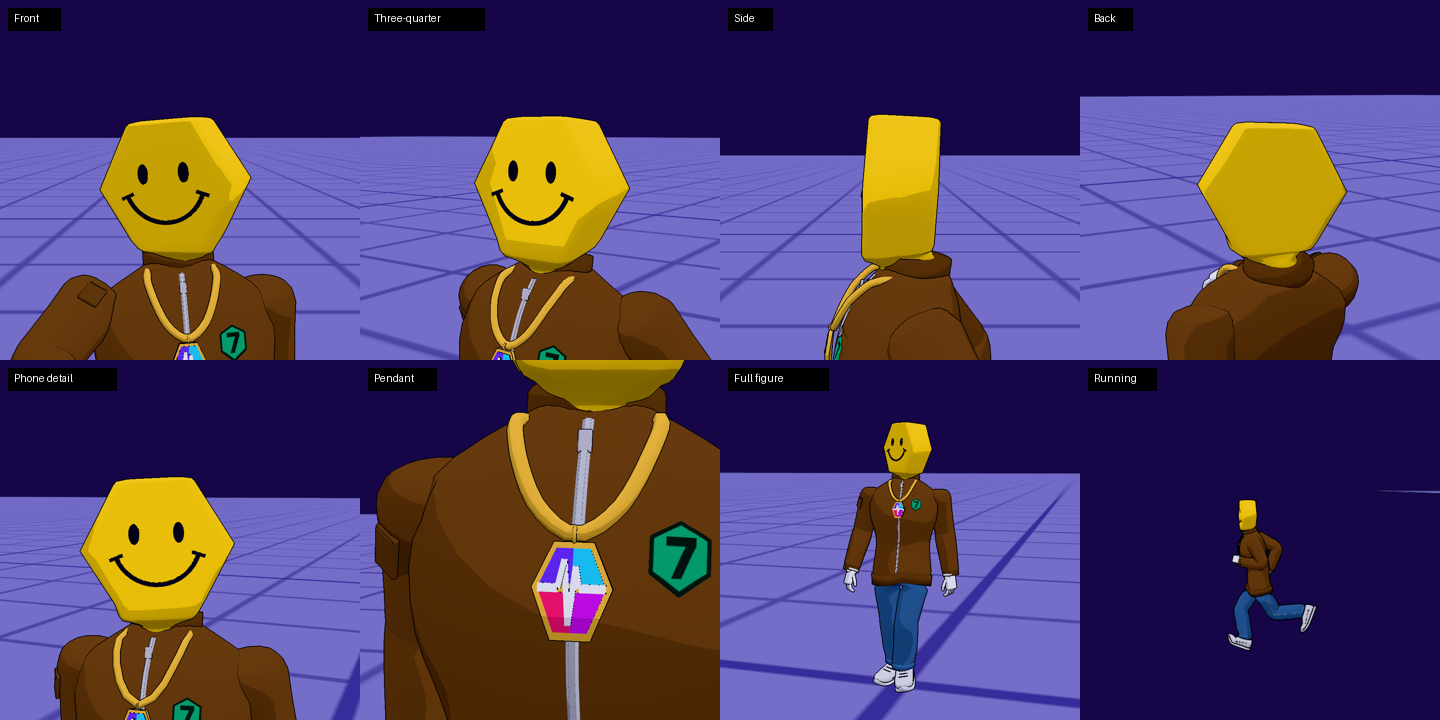
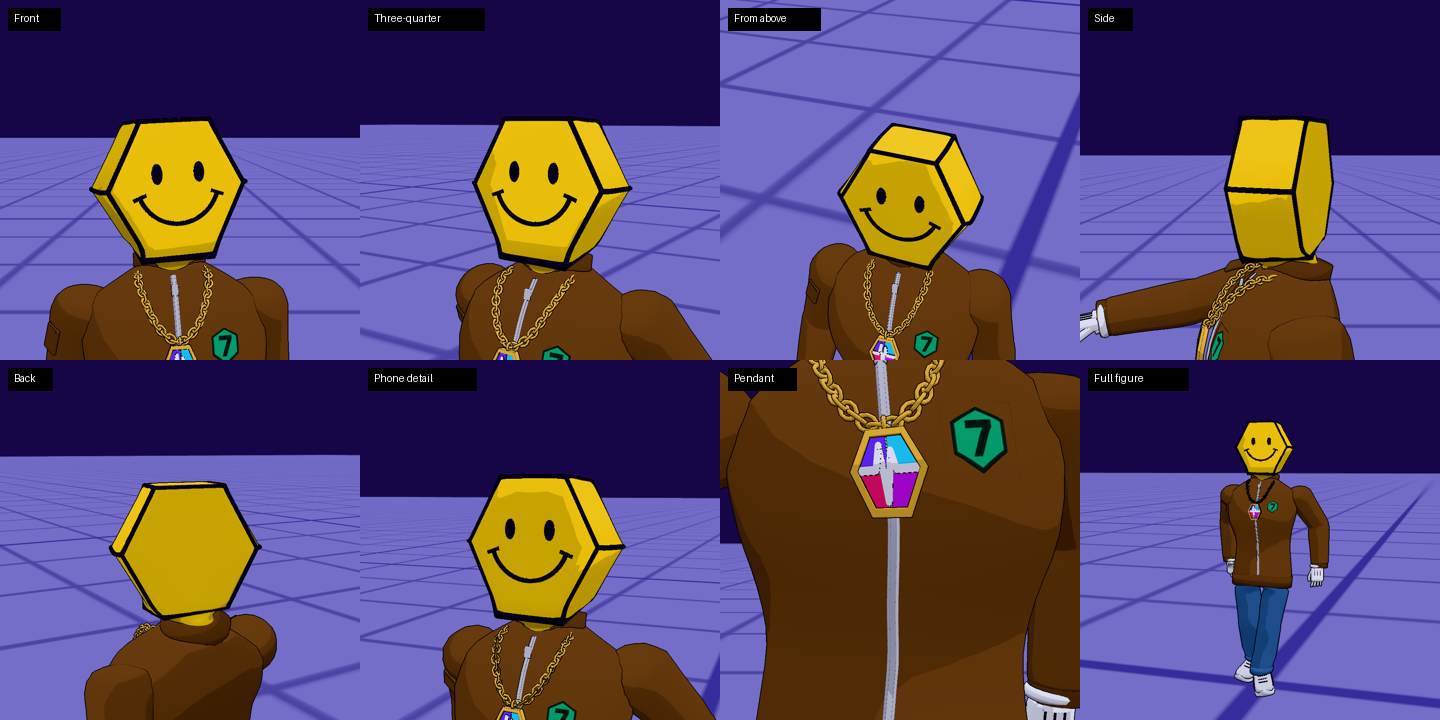
Characters plan: Smilex's detail pass
His head's edges inked like a cartoon block (round the face, round the
back, down each corner), after the owner's second reference; the ring
drawn on the face taken out. The PulseChain pendant set like a jewel
(bezel, bevelled facets, a truer pulse line), a chunky curb chain along
the necklace's path, stitch lines and puffier cuffs on his gloves. Tests
hold the edge lines on the head's surface, the chain and the gloves.

Claude-Session: https://claude.ai/code/session_018cDkyenYfEPdmugdyyKXDm

diff --git a/src/scripts/city3d/heads.ts b/src/scripts/city3d/heads.ts
@@ -319,9 +319,11 @@ export let SMILEX: HeadModel;
 export const SMILEX_EYE_Y = 0.15;
 export const SMILEX_MOUTH_Y = 0.085;
 
-/** A flat outline in ink laid on a head's front, `lift` off it */
-function inkOn(m: HeadModel, outline: [number, number][], lift: number, depth = 0.0012) {
-  const g = new THREE.ExtrudeGeometry(new THREE.Shape(outline.map(([x, y]) => new THREE.Vector2(x, y))), { depth, bevelEnabled: false, curveSegments: 6 });
+/** A flat outline in ink laid on a head's front, `lift` off it (with holes: a border) */
+function inkOn(m: HeadModel, outline: [number, number][], lift: number, depth = 0.0012, holes: [number, number][][] = []) {
+  const shape = new THREE.Shape(outline.map(([x, y]) => new THREE.Vector2(x, y)));
+  for (const h of holes) shape.holes.push(new THREE.Path(h.map(([x, y]) => new THREE.Vector2(x, y))));
+  const g = new THREE.ExtrudeGeometry(shape, { depth, bevelEnabled: false, curveSegments: 6 });
   const p = g.attributes.position as THREE.BufferAttribute;
   for (let i = 0; i < p.count; i++) p.setZ(i, m.front(p.getX(i), p.getY(i)) + lift + p.getZ(i));
   g.computeVertexNormals();
@@ -380,46 +382,169 @@ export function smilex(q: 2 | 3) {
     const d = 0.012;
     return inkOn(SMILEX, bar([end[0] - Math.cos(a) * d, end[1] - Math.sin(a) * d], [end[0] + Math.cos(a) * d, end[1] + Math.sin(a) * d], 0.006), 0.0011);
   });
-  return { head: [head], ink: [...eyes, smile, ...ticks] };
+  return { head: [head], ink: [...eyes, smile, ...ticks], edges: hexEdges(q) };
 }
 
 /**
- * The PulseChain symbol as a pendant (the owner's call, 2026-11-21): a flat-topped hexagon in a gold rim, its face in
- * four bands for the logo's gradient (cyan, violet, magenta, red), the white pulse line across it, and a bail at the
- * top for the chain. Centred on the origin, its face towards +z, about 6 cm across.
+ * The block's edges inked (the owner's call, after the art: a cartoon block, black lines along its edges, not a ring
+ * drawn on the face): round the face where it turns onto the sides, round the back the same, and along each of the
+ * six corners from front to back, following the rounded edge. Black tubes half sunk into the rounded edges, so each
+ * reads as a bold line from the face and from the side alike; a ball at each corner joins them.
+ */
+export const EDGE_R = 0.0038;
+function hexEdges(q: 2 | 3) {
+  const M = SMILEX;
+  const seg = q === 3 ? 6 : 4;
+  // (the rounded edge's middle on a row: its squircle at 45 degrees, front or back)
+  const rim = (x: number, y: number, side: 1 | -1, k = 0.5) => {
+    const [, hw, fr, back, zc, n] = M.rowAt(y);
+    const e = 2 / n;
+    const a = (Math.PI / 2) * k;
+    return new THREE.Vector3(Math.sign(x) * Math.cos(a) ** e * hw, y, zc + side * Math.sin(a) ** e * (side > 0 ? fr : back));
+  };
+  // (the top and bottom flats: the edge between face and flat, a couple of millimetres in from each)
+  const yTop = HEX_Y1 - 0.0012;
+  const yBot = HEX_Y0 + 0.0012;
+  const flatZ = (side: 1 | -1) => HEX_ZC + side * (HEX_D - 0.0028);
+  const corners = (side: 1 | -1) => {
+    const top = hexHW(HEX_Y1) - 0.002;
+    const bot = hexHW(HEX_Y0) - 0.002;
+    const c = rim(1, HEX_MID, side).x;
+    return [
+      new THREE.Vector3(c, HEX_MID, rim(1, HEX_MID, side).z),
+      new THREE.Vector3(top * 0.97, yTop, flatZ(side)),
+      new THREE.Vector3(-top * 0.97, yTop, flatZ(side)),
+      new THREE.Vector3(-c, HEX_MID, rim(1, HEX_MID, side).z),
+      new THREE.Vector3(-bot * 0.97, yBot, flatZ(side)),
+      new THREE.Vector3(bot * 0.97, yBot, flatZ(side)),
+    ];
+  };
+  const out: THREE.BufferGeometry[] = [];
+  const tube = (pts: THREE.Vector3[], n: number) => out.push(new THREE.TubeGeometry(new THREE.CatmullRomCurve3(pts, false, 'catmullrom', 0), n, EDGE_R, seg, false));
+  const ball = (p: THREE.Vector3) => out.push(new THREE.SphereGeometry(EDGE_R * 1.05, seg + 2, Math.max(3, seg - 1)).translate(p.x, p.y, p.z));
+  for (const side of [1, -1] as const) {
+    const c = corners(side);
+    // Round the face (or the back): the slanted sides follow the rim row by row, the flats run straight
+    for (let i = 0; i < 6; i++) {
+      const a = c[i];
+      const b = c[(i + 1) % 6];
+      if (Math.abs(a.y - b.y) < 1e-6) tube([a, b], 2);
+      else {
+        const pts: THREE.Vector3[] = [];
+        for (let k = 0; k <= 8; k++) {
+          const y = a.y + ((b.y - a.y) * k) / 8;
+          const p = rim(a.x, y, side);
+          // (towards the flats the line eases onto the flat's edge line)
+          pts.push(k === 8 ? b.clone() : k === 0 ? a.clone() : p);
+        }
+        tube(pts, 10);
+      }
+      ball(c[i]);
+    }
+  }
+  // Along each corner, front to back: the side points round their rows' rounded ends, the four flats' corners along
+  // where the flat meets the slanted side
+  for (const [x, y] of [
+    [1, HEX_MID],
+    [-1, HEX_MID],
+  ] as const) {
+    const pts: THREE.Vector3[] = [];
+    for (let k = 0; k <= 8; k++) {
+      const t = 1 - k / 4;
+      pts.push(rim(x, y, t >= 0 ? 1 : -1, Math.abs(t) * 0.5));
+    }
+    tube(pts, 10);
+  }
+  for (const [sx, y] of [
+    [1, yTop],
+    [-1, yTop],
+    [1, yBot],
+    [-1, yBot],
+  ] as const) {
+    const w = (y === yTop ? hexHW(HEX_Y1) : hexHW(HEX_Y0)) - 0.002;
+    tube([new THREE.Vector3(sx * w * 0.97, y, flatZ(1)), new THREE.Vector3(sx * w * 1.0, y, HEX_ZC), new THREE.Vector3(sx * w * 0.97, y, flatZ(-1))], 6);
+  }
+  return out;
+}
+
+/**
+ * The PulseChain symbol as a pendant (the owner's call, 2026-11-21), set like a jewel: a gold back plate and a bezel
+ * standing round the edge, the face set into it in four bevelled facets for the logo's gradient (cyan, violet, magenta,
+ * red), the white pulse line across it edge to edge with rounded joins, and a chunky bail at the top for the chain.
+ * Flat-topped, centred on the origin, its face towards +z, about 6 cm across.
  */
 export function pulsePendant(q: 2 | 3) {
-  const r = 0.03;
-  const T = 0.007;
-  const rim = new THREE.CylinderGeometry(r, r, T, 6, 1).rotateX(Math.PI / 2).rotateZ(Math.PI / 6);
+  const r = 0.031;
+  const T = 0.008;
   const hex = (rr: number, k: number): [number, number] => [Math.cos((k * Math.PI) / 3) * rr, Math.sin((k * Math.PI) / 3) * rr];
-  const f = r * 0.84;
+  const hexPts = (rr: number) => Array.from({ length: 6 }, (_, k) => hex(rr, k));
+  const shapeOf = (pts: [number, number][]) => new THREE.Shape(pts.map(([x, y]) => new THREE.Vector2(x, y)));
+  const flat = (outline: [number, number][], z: number, d: number, bevel = 0) =>
+    new THREE.ExtrudeGeometry(shapeOf(outline), { depth: d, bevelEnabled: bevel > 0, bevelThickness: bevel, bevelSize: bevel * 0.8, bevelSegments: 1 }).translate(0, 0, z);
+  // The back plate, and the bezel: a hexagonal ring standing proud of the face
+  const plate = new THREE.CylinderGeometry(r, r, T, 6, 1).rotateX(Math.PI / 2).rotateZ(Math.PI / 6);
+  const IN = r * 0.84;
+  const bezelShape = shapeOf(hexPts(r));
+  bezelShape.holes.push(new THREE.Path(hexPts(IN).reverse().map(([x, y]) => new THREE.Vector2(x, y))));
+  const bezel = new THREE.ExtrudeGeometry(bezelShape, { depth: 0.0035, bevelEnabled: true, bevelThickness: 0.0009, bevelSize: 0.0007, bevelSegments: q === 3 ? 2 : 1 }).translate(0, 0, T / 2);
+  // The face's four facets, set a little below the bezel's lip, each bevelled so it catches the light like a cut stone
+  const f = IN - 0.0012;
   const h = (f * Math.sqrt(3)) / 2;
-  const g = 0.0022;
-  const flat = (outline: [number, number][], z: number, d = 0.0008) =>
-    new THREE.ExtrudeGeometry(new THREE.Shape(outline.map(([x, y]) => new THREE.Vector2(x, y))), { depth: d, bevelEnabled: false }).translate(0, 0, z);
-  const face = T / 2 + 0.0005;
-  // (the face's four quarters, either side of the middle and above and below the pulse line)
+  const g = 0.0026;
+  const face = T / 2 + 0.0003;
   const xAt = (y: number) => f - Math.abs(y) / Math.sqrt(3);
+  const B = 0.0007;
   const bands = {
-    cyan: flat([[0, g], [xAt(g), g], hex(f, 1), [0, h]], face),
-    violet: flat([[0, g], [0, h], hex(f, 2), [-xAt(g), g]], face),
-    magenta: flat([[0, -g], [0, -h], hex(f, 5), [xAt(g), -g]], face),
-    red: flat([[0, -g], [-xAt(g), -g], hex(f, 4), [0, -h]], face),
+    cyan: flat([[0.0009, g], [xAt(g), g], hex(f, 1), [0.0009, h]], face, 0.0012, B),
+    violet: flat([[-0.0009, g], [-0.0009, h], hex(f, 2), [-xAt(g), g]], face, 0.0012, B),
+    magenta: flat([[0.0009, -g], [0.0009, -h], hex(f, 5), [xAt(g), -g]], face, 0.0012, B),
+    red: flat([[-0.0009, -g], [-xAt(g), -g], hex(f, 4), [-0.0009, -h]], face, 0.0012, B),
   };
-  // The pulse line: flat from the left, up, down past the middle, up again, flat to the right
+  // The pulse line: flat in from each edge, up, down past the middle, up again; thick, its joins round
   const P: [number, number][] = [
     [-1, 0],
     [-0.4, 0],
-    [-0.24, 0.6],
-    [-0.06, -0.72],
-    [0.1, 0.45],
-    [0.22, 0],
+    [-0.25, 0.62],
+    [-0.07, -0.74],
+    [0.1, 0.46],
+    [0.23, 0],
     [1, 0],
-  ].map(([x, y]) => [x * f, y * f]);
-  const pulse = P.slice(1).map((b, i) => flat(bar(P[i], b, 0.0045), face + 0.0009, 0.0008));
-  const bail = new THREE.TorusGeometry(0.0055, 0.0016, R2(q, 6), R2(q, 12)).rotateY(Math.PI / 2).translate(0, (r * Math.sqrt(3)) / 2 + 0.005, 0);
-  return { gold: [rim, bail], bands, white: pulse };
+  ].map(([x, y]) => [x * IN, y * f]);
+  const W = 0.0055;
+  const lineZ = face + 0.0012 + B + 0.0003;
+  const pulse = [
+    ...P.slice(1).map((b2, i) => flat(bar(P[i], b2, W), lineZ, 0.0009)),
+    ...P.slice(1, -1).map(([x, y]) => new THREE.CylinderGeometry(W / 2, W / 2, 0.0009, R2(q, 10)).rotateX(Math.PI / 2).translate(x, y, lineZ + 0.00045)),
+  ];
+  const bail = new THREE.TorusGeometry(0.0062, 0.0022, R2(q, 6), R2(q, 14)).rotateY(Math.PI / 2).translate(0, (r * Math.sqrt(3)) / 2 + 0.0055, 0);
+  return { gold: [plate, bezel, bail], bands, white: pulse };
+}
+
+/**
+ * A chunky curb chain along a path (Smilex's: docs/characters-plan.md): oval links every centimetre, each turned a
+ * quarter from the one before so they interlock, laid where the necklace's cord would be
+ */
+export function curbChain(path: THREE.Curve<THREE.Vector3>, q: 2 | 3) {
+  const len = path.getLength();
+  const n = Math.round(len / 0.0105);
+  const links: THREE.BufferGeometry[] = [];
+  const link = new THREE.TorusGeometry(0.0066, 0.0021, q === 3 ? 5 : 3, q === 3 ? 10 : 7).scale(1.35, 1, 1);
+  const up = new THREE.Vector3(0, 1, 0);
+  const front = new THREE.Vector3(0, 0, 1);
+  for (let i = 0; i <= n; i++) {
+    const u = i / n;
+    const p = path.getPointAt(u);
+    const t = path.getTangentAt(u).normalize();
+    // (a link lies flat on the chest, the next stands across it)
+    const lie = new THREE.Vector3().crossVectors(t, up);
+    if (lie.lengthSq() < 1e-4) lie.crossVectors(t, front);
+    lie.normalize();
+    if (lie.z < 0) lie.negate();
+    const normal = i % 2 ? new THREE.Vector3().crossVectors(t, lie).normalize() : lie;
+    const side = new THREE.Vector3().crossVectors(normal, t).normalize();
+    links.push(link.clone().applyMatrix4(new THREE.Matrix4().makeBasis(t, side, normal).setPosition(p)));
+  }
+  return links;
 }
 const R2 = (q: 2 | 3, n: number) => Math.max(4, Math.round(n * (q === 3 ? 1 : 0.7)));
 
@@ -452,6 +577,7 @@ export function characterParts(id: CharacterId, q: 2 | 3): HeadPart[] {
       return [
         { geos: s.head, color: SMILEX_YELLOW },
         { geos: s.ink, color: SLIME_INK },
+        { geos: s.edges, color: SLIME_INK },
       ];
     }
   }
@@ -469,6 +595,11 @@ export function characterPendant(id: CharacterId, q: 2 | 3): HeadPart[] | null {
     { geos: [p.bands.red], color: '#ee3070' },
     { geos: p.white, color: '#e9e7ef' },
   ];
+}
+
+/** A character's own chain along the necklace's path (null: the necklace's smooth cord) */
+export function characterChain(id: CharacterId, q: 2 | 3, path: THREE.Curve<THREE.Vector3>): THREE.BufferGeometry[] | null {
+  return id === 'smilex' ? curbChain(path, q) : null;
 }
 
 /** The colour of a character's gloves (null: bare hands in the skin tone) */

diff --git a/tests/heads.test.ts b/tests/heads.test.ts
@@ -11,7 +11,7 @@ import { CHARACTERS, CHARACTER_LOOKS, DEFAULT_LOOK, PALETTE, cleanLook, type Cha
 import { SKIN_TONES } from '../src/scripts/city3d/crowdlook';
 import { describe as describeLook } from '../src/scripts/city3d/lookrows';
 import { DEGEN_HEAD, HEAD_ROWS, headGeometry, headModel, type HeadDef } from '../src/scripts/city3d/body';
-import { CHARACTER_IDS, characterGloves, characterParts, characterPendant, setHeadModel, SMILEX, SMILEX_HEAD, smilex, SLIME, SLIME_EYE_R, SLIME_EYE_Y, SLIME_HEAD, SLIME_MOUTH_Y, slimeEyes, slimeWhale } from '../src/scripts/city3d/heads';
+import { CHARACTER_IDS, characterChain, characterGloves, characterParts, characterPendant, setHeadModel, SMILEX, SMILEX_HEAD, smilex, SLIME, SLIME_EYE_R, SLIME_EYE_Y, SLIME_HEAD, SLIME_MOUTH_Y, slimeEyes, slimeWhale } from '../src/scripts/city3d/heads';
 import { newPose, poseSkeleton, weigh, type Influence } from '../src/scripts/city3d/skeleton';
 import { dress, inside, posed, shells, type Worn } from './dress';
 
@@ -48,7 +48,7 @@ const each = (gs: THREE.BufferGeometry | THREE.BufferGeometry[], f: (v: THREE.Ve
 test('heads: before their chunk is in, a character is Degen as he is (never a figure with no head)', () => {
   const worn = ids(3, SLIMEWHALE);
   assert.ok(worn.includes('head') && !worn.some((id) => id.startsWith('character-')));
-  useHeads({ ids: CHARACTER_IDS, parts: characterParts, pendant: characterPendant, gloves: characterGloves });
+  useHeads({ ids: CHARACTER_IDS, parts: characterParts, pendant: characterPendant, chain: characterChain, gloves: characterGloves });
 });
 
 test('heads: every character has its item; only Degen wears his own head', () => {
@@ -281,10 +281,39 @@ test("heads: Smilex's smile and eyes on the flat of his face, never inside his h
       n++;
       assert.ok(!SMILEX.inside(v.x, v.y, v.z - 0.0004), `detail ${q}: ink inside the head at ${v.toArray().map((x) => x.toFixed(3))}`);
       assert.ok(v.z - SMILEX.front(v.x, v.y) < 0.004, `detail ${q}: ink off his face`);
-      assert.ok(Math.abs(v.x) < SMILEX.rowAt(v.y)[1] * 0.75, `detail ${q}: ink round the edge at x ${v.x.toFixed(3)}`);
+      // (the border runs just inside the face's edge; nothing round onto the sides)
+      assert.ok(Math.abs(v.x) < SMILEX.rowAt(v.y)[1] * 0.92, `detail ${q}: ink round the edge at x ${v.x.toFixed(3)}`);
     });
     assert.ok(n > 0);
   }
+});
+
+test("heads: Smilex's block edges inked: every line on the head's rounded edges, none floating or sunk", () => {
+  for (const q of [3, 2] as const) {
+    const edges = smilex(q).edges;
+    assert.ok(edges.length >= 12 + 12 + 6, `detail ${q}: ${edges.length} lines and corners`);
+    const mid = SMILEX_HEAD.rows.reduce((a, r) => (r[1] > a[1] ? r : a));
+    const c = new THREE.Vector3(0, mid[0], mid[4]);
+    const d = new THREE.Vector3();
+    each(edges, (v) => {
+      // (a step in towards the head's middle is inside it, a step out isn't: the line hugs the surface)
+      d.subVectors(v, c).normalize();
+      const inP = v.clone().addScaledVector(d, -0.009);
+      const outP = v.clone().addScaledVector(d, 0.009);
+      assert.ok(SMILEX.inside(inP.x, inP.y, inP.z), `detail ${q}: an edge line floating at ${v.toArray().map((n) => n.toFixed(3))}`);
+      assert.ok(!SMILEX.inside(outP.x, outP.y, outP.z), `detail ${q}: an edge line sunk at ${v.toArray().map((n) => n.toFixed(3))}`);
+    });
+  }
+});
+
+test("heads: Smilex's chain is curb links along the necklace's path, his gloves stitched", () => {
+  const d = dress(SMILEX_OUTFIT, 3);
+  const gold = d.worn.find((w) => w.item === 'necklace-smilex-bomber' && w.piece.color === '#e2b04a' && w.rest.length / 9 > 1500)!;
+  assert.ok(gold, 'the chain');
+  const plain = dress({ ...SMILEX_OUTFIT, character: undefined }, 3).worn.find((w) => w.item === 'necklace-bomber')!;
+  assert.ok(gold.rest.length > plain.rest.length, 'links, not the cord');
+  const lines = d.worn.filter((w) => w.item === 'gloves-smilex' && w.piece.color === '#16141f');
+  assert.equal(lines.length, 2, 'stitch lines on both gloves');
 });
 
 test('heads: Smilex wears white gloves and the PulseChain pendant; everyone else as before', () => {

diff --git a/src/scripts/city3d/wardrobe.ts b/src/scripts/city3d/wardrobe.ts
@@ -1202,7 +1202,7 @@ export function items(q: Detail, hero = false): Item[] {
   const cuffs = (color: string): Piece[] =>
     ([-1, 1] as const).map((s) => {
       const S = s < 0 ? 'L' : 'R';
-      const geo = new THREE.TorusGeometry(0.0275, 0.0062, R(6), R(14)).rotateX(Math.PI / 2).translate(0, 0.046, -0.002).toNonIndexed();
+      const geo = new THREE.TorusGeometry(0.029, 0.0085, R(6), R(14)).rotateX(Math.PI / 2).translate(0, 0.047, -0.002).toNonIndexed();
       const p = geo.attributes.position as THREE.BufferAttribute;
       const skin: Influence[] = [];
       for (let i = 0; i < p.count; i++) {
@@ -1210,6 +1210,15 @@ export function items(q: Detail, hero = false): Item[] {
         skin.push(f > 1e-4 ? [[`hand${S}` as BoneName, 1 - f], [`fore${S}` as BoneName, f]] : [[`hand${S}` as BoneName, 1]]);
       }
       return P(s < 0 ? 'handL' : 'handR', geo, color, { skin });
+    });
+  /** A cartoon glove's three stitch lines down the back of each hand, towards the knuckles (the palm is the hand's -x side on the +x hand) */
+  const stitchLines = (): Piece[] =>
+    ([-1, 1] as const).map((s) => {
+      const S = s < 0 ? 'L' : 'R';
+      const merged = one([-0.014, 0, 0.014].map((z) => new THREE.BoxGeometry(0.0014, 0.026, 0.0026).translate(s * 0.0165, 0.013, z)));
+      const geo = merged.index ? merged.toNonIndexed() : merged;
+      const skin: Influence[] = Array.from({ length: geo.attributes.position.count }, () => [[`hand${S}` as BoneName, 1]]);
+      return P(s < 0 ? 'handL' : 'handR', geo, BLACK, { skin, detail: true });
     });
   const suit = (o: Outfit) => o.kind === 'suit';
   const hoodie = (o: Outfit) => o.kind === 'hoodie';
@@ -4346,7 +4355,11 @@ export function items(q: Detail, hero = false): Item[] {
                     {
                       id: `necklace-${id}-${k}`,
                       when: (o: Outfit) => !!o.necklace && is(o) && o.character === id,
-                      pieces: [P('torso', one(necklace), GOLD), ...parts.map((h) => P('torso', one(h.geos.map((g) => g.clone().applyMatrix4(at))), h.color))],
+                      // (his own chain where he has one: Smilex's chunky curb links, along the cord's own path)
+                      pieces: [
+                        P('torso', one(heads!.chain(id, q as 2 | 3, (necklace[0] as THREE.TubeGeometry).parameters.path) ?? necklace), GOLD),
+                        ...parts.map((h) => P('torso', one(h.geos.map((g) => g.clone().applyMatrix4(at))), h.color)),
+                      ],
                     },
                   ];
                 })
@@ -4806,7 +4819,7 @@ export function items(q: Detail, hero = false): Item[] {
           ...(heads
             ? heads.ids.flatMap((id): Item[] => {
                 const c = heads!.gloves(id);
-                return c ? [{ id: `gloves-${id}`, when: (o: Outfit) => !soldier(o) && o.character === id, pieces: [...fingers(c), ...cuffs(c)] }] : [];
+                return c ? [{ id: `gloves-${id}`, when: (o: Outfit) => !soldier(o) && o.character === id, pieces: [...fingers(c), ...cuffs(c), ...stitchLines()] }] : [];
               })
             : []),
         ]
@@ -5202,6 +5215,8 @@ let heads: {
   parts: (id: CharacterId, q: 2 | 3) => HeadPart[];
   /** What hangs on a character's chain in place of the diamond (null: the diamond) */
   pendant: (id: CharacterId, q: 2 | 3) => HeadPart[] | null;
+  /** A character's own chain along the necklace's path (null: the smooth cord) */
+  chain: (id: CharacterId, q: 2 | 3, path: THREE.Curve<THREE.Vector3>) => THREE.BufferGeometry[] | null;
   /** A character's gloves' colour (null: bare hands) */
   gloves: (id: CharacterId) => string | null;
 } | null = null;

diff --git a/src/scripts/city3d/character.ts b/src/scripts/city3d/character.ts
@@ -94,7 +94,7 @@ function items(q: Detail, hero = false): Item[] {
 export const loadHeads = lazy(async () => {
   const m = await import('./heads');
   m.setHeadModel(headModel);
-  useHeads({ ids: m.CHARACTER_IDS, parts: m.characterParts, pendant: m.characterPendant, gloves: m.characterGloves });
+  useHeads({ ids: m.CHARACTER_IDS, parts: m.characterParts, pendant: m.characterPendant, chain: m.characterChain, gloves: m.characterGloves });
   delete withRifle['2h'];
   delete withRifle['3h'];
   headsIn = true;

diff --git a/docs/characters-plan.md b/docs/characters-plan.md
@@ -213,11 +213,12 @@ How he's built (Phase 1 for him, in the lab): his `HeadDef` in heads.ts
 (`SMILEX_HEAD`: Degen's neck rows, then the hexagon as rows whose
 half-width runs straight from the flats to the points, every row a ring
 so the points stay sharp, its edges rounded a few millimetres), his ink
-(`smilex()`, `inkOn()`), the pendant (`pulsePendant()`, handed to the
+(`smilex()`, `inkOn()`, the edges `hexEdges()`), the pendant (`pulsePendant()`, handed to the
 wardrobe as `characterPendant()`: the `necklace-smilex-<top>` items in
 place of `necklace-<top>`) and the gloves (`characterGloves()`: the
 `gloves-smilex` item in place of `fingers`). All in the heads' chunk (now
-3.7 KB); the boot grew 0.3 KB (769.0 of 770 KB). He's in `CHARACTER_IDS`
+4.6 KB with the detail); the boot grew 0.5 KB in all for him (769.2 of
+770 KB). He's in `CHARACTER_IDS`
 (heads.ts) but not yet in `CHARACTERS` (profile-data.ts), so the fitting
 room doesn't offer him and a saved `smilex` cleans to Degen until Phase 2.
 Lab:
@@ -227,6 +228,26 @@ his hexagon's flats, points and straight sides; his ink on the flat of his
 face; the gloves and pendant on him only (the diamond and bare hands on
 everyone else); the pendant clear of five tops and centred. Shots:
 `docs/characters-shots/smilex-phase1.png`.
+
+**More detail** (the owner's answers, 2026-11-21, after the first shots):
+- **The head's edges inked:** bold black lines along the block's own
+  edges, as in the owner's second reference: round the face where it turns
+  onto the sides, round the back, and down each of the six corners
+  (`hexEdges()`: black tubes half sunk into the rounded edges, a ball at
+  each corner). A ring drawn inside the face was tried first and taken out
+  (the owner: "the hexagon on his face isn't correct"). One flat yellow, no
+  darker sides (the owner's call).
+- **The pendant set like a jewel:** a gold back plate and a bezel standing
+  round the edge, the four colour facets bevelled and set into it, the
+  pulse line thicker with rounded joins, edge to edge, a chunkier bail. Its
+  size as it was (6 cm across).
+- **A chunky curb chain:** oval gold links every centimetre, each turned a
+  quarter from the last (`curbChain()`, along the necklace cord's own path:
+  `characterChain()`).
+- **Cartoon gloves:** three black stitch lines down the back of each glove
+  and puffier rolled cuffs.
+- Not changed: his head's depth (the reference's block is a little
+  thinner) and its size; ask the owner if either should change.
 
 Smilex's phases are SlimeWhale's: 1, the head in the lab (built,
 2026-11-21, waiting on the owner's sign-off), 2, wearing him (his line in
